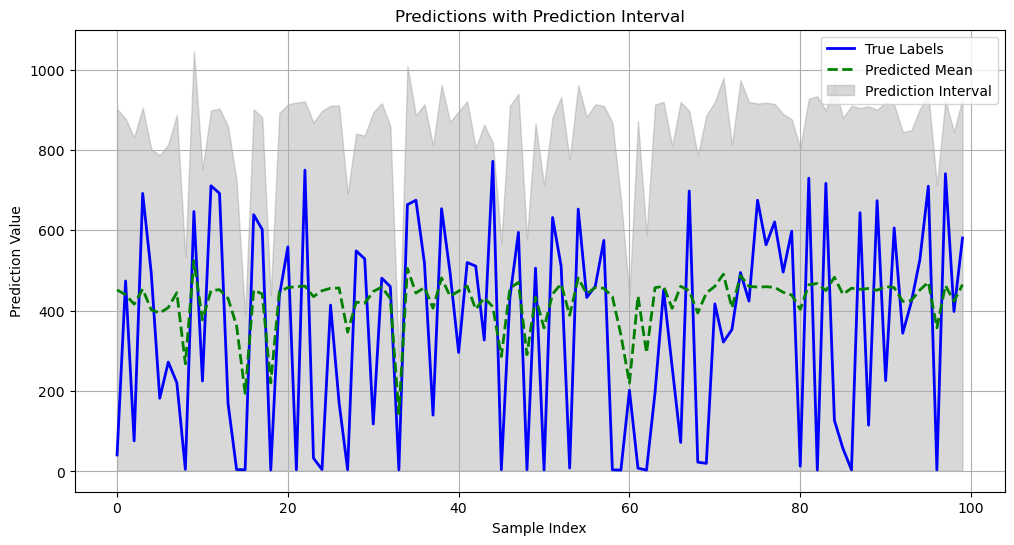
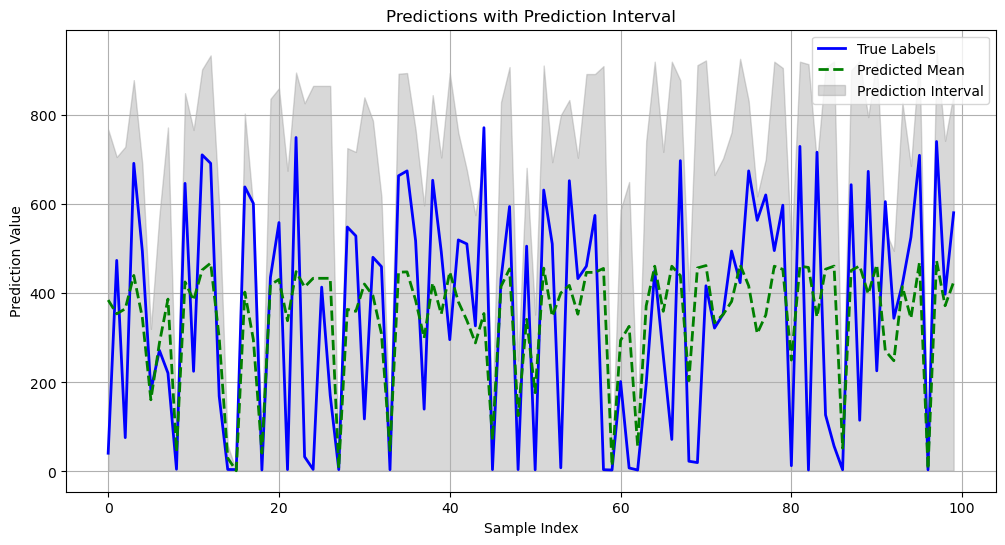
changes weight initialization

diff --git a/quantile_regression.py b/quantile_regression.py
@@ -1,6 +1,26 @@
 import torch
 import torch.nn as nn
 
+def initialize_weights(layer):
+    """
+    Initialize the weights of the layer.
+    This will initialize the weights using a normal distribution 
+    and the biases to zero.
+    """
+    if isinstance(layer, nn.Linear):
+        nn.init.normal_(layer.weight, mean=0.0, std=0.01)
+        nn.init.zeros_(layer.bias)
+    elif isinstance(layer, nn.Conv2d):
+        nn.init.kaiming_normal_(layer.weight, mode='fan_out', nonlinearity='relu')
+        if layer.bias is not None:
+            nn.init.zeros_(layer.bias)
+    elif isinstance(layer, nn.LSTM):
+        for name, param in layer.named_parameters():
+            if 'weight' in name:
+                nn.init.kaiming_normal_(param, mode='fan_out', nonlinearity='relu')
+            elif 'bias' in name:
+                nn.init.zeros_(param)
+
 class QuantileRegressionModel(nn.Module):
     def __init__(self, base_model, num_quantiles=2):
         """
@@ -18,6 +38,9 @@ class QuantileRegressionModel(nn.Module):
             self.base_model.fc2 = nn.Linear(in_features, num_quantiles)
         else:
             raise AttributeError("Base model must have an 'fc2' layer that is a fully connected layer.")
+        
+        # Initialize only the last layer (fc2) for quantile regression
+        initialize_weights(self.base_model.fc2)
 
     def forward(self, x):
         """

diff --git a/plotting.py b/plotting.py
@@ -122,9 +122,9 @@ def plot_predictions_quantile(
 
 
 plot_predictions_quantile(
-    true_labels_file="./output_quantile_v2/true_labels.npy",
-    lower_bounds_file="./output_quantile_v2/lower_bounds.npy",
-    upper_bounds_file="./output_quantile_v2/upper_bounds.npy",
+    true_labels_file="./output_quantile_v3/true_labels.npy",
+    lower_bounds_file="./output_quantile_v3/pred_lower_bounds.npy",
+    upper_bounds_file="./output_quantile_v3/pred_upper_bounds.npy",
     plot_save_path="quantileTestPlot.png",
     num_labels=100
 )
